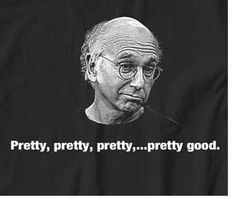
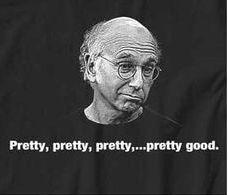
all functions refactored and reordered for better readability... larry david pic cropped

Changed region(s): [[0.0, 0.0, 1.0, 1.0], [0.3377, 0.0615, 0.7061, 0.6462]]

diff --git a/script.js b/script.js
@@ -11,7 +11,7 @@ $( document ).ready(function() {
   var $playerGuess = $('#playerGuessText');
   var $openingVid = $('#openingVid');
   var $regions_div = $('#regions_div');
-  var oneMinute = 15;
+  var oneMinute = 60;
   var guessFormatted;
   var answerFormatted;
   var answerVsGuess;
@@ -304,40 +304,12 @@ $( document ).ready(function() {
   //***************************************************************************
   //START GAME
   //***************************************************************************
-  $startBtn.on('click', function() {
-    $startBtn.addClass('hidden');
-    $openingVid.addClass('hidden');
-    $regions_div.removeClass('hidden');
-    $banner.removeClass('hidden').text("Go!");
-    getNewCountry();
-    $playerGuess.focus();    
-    display = document.querySelector('#time');
-    startTimer(oneMinute, display);
-  });
+  $startBtn.on('click', startGame);
 
   //***************************************************************************
   //USES GUESSES
   //***************************************************************************
-  $playerGuessForm.submit(function(e) {
-    e.preventDefault();
-    $playerGuessVal = $('#playerGuessText').val();
-    $('#playerGuessText').val("");
-    
-    // Format guess and answer
-    guessFormatted = formatAnswerForCheck($playerGuessVal);
-    answerFormatted = formatAnswerForCheck(countryName);
-    
-    // Compare guess and answer - returns array with any overlapping elements
-    answerVsGuess = _.intersectionWith(guessFormatted, answerFormatted, _.isEqual);
-
-    guessCount++;
-    // Checking guess against correct answer
-    checkAnswer();
-    $playerScore.text(`Player Score: ${correctCount}`);
-    
-    // Generate a new country
-    getNewCountry();
-  });  
+  $playerGuessForm.submit(processUserGuess);  
   
   //***************************************************************************
   //RESET GAME
@@ -348,6 +320,7 @@ $( document ).ready(function() {
   //***************************************************************************
   //FUNCTION DEFINITIONS
   //***************************************************************************
+
   // Google's drawRegionsMap function - DO NOT CHANGE (except variables)
   // https://developers.google.com/chart/interactive/docs/gallery/geochart
   function drawRegionsMap() {
@@ -378,35 +351,18 @@ $( document ).ready(function() {
     
     chart.draw(data, options);
   }
-
-  function getNewCountry() {
-    $.ajax({
-      url: 'http://ws.postcoder.com/pcw/PCW45-12345-12345-1234X/country/' + arrayOfCountryInfo[imagesShownCount][0] + '?format=json',
-      method: "GET",
-      success: function(data) {
-        assignCountryInfo(data);
-        drawRegionsMap();
-        imagesShownCount++;
-      }
-    });
-  }
-
-  // Creates array where each element is:
-  // a word, lower-case, w/ non-letters removed and non-English
-  // characters replaced
-  // http://stackoverflow.com/questions/286921/efficiently-replace-all-accented-characters-in-a-string
-  var formatAnswerForCheck = (function() {
-    var translate_re = /[ôé',()-]/g;
-    var translate = {
-      "ô": "o", "é": "e", "(": "", 
-      ")": "", "-": "", "'": "", ",": ""   // probably more to come
-    };
-    return function(s) {
-      return ( s.replace(translate_re, function(match) { 
-        return translate[match]; 
-      }).toLowerCase().split(" ") );
-    };
-  })();
+  
+  // Initiates start of the game
+  function startGame() {
+      $startBtn.addClass('hidden');
+      $openingVid.addClass('hidden');
+      $regions_div.removeClass('hidden');
+      $banner.removeClass('hidden').text("Go!");
+      getNewCountry();
+      $playerGuess.focus();    
+      display = document.querySelector('#time');
+      startTimer(oneMinute, display);
+    }
 
   // Timer function
   // http://stackoverflow.com/questions/20618355/the-simplest-possible-javascript-countdown-timer
@@ -445,7 +401,83 @@ $( document ).ready(function() {
       timer();
       gameTimer = setInterval(timer, 1000);
   }
+  
+  // Displays a new country
+  function getNewCountry() {
+    $.ajax({
+      url: 'http://ws.postcoder.com/pcw/PCW45-12345-12345-1234X/country/' + arrayOfCountryInfo[imagesShownCount][0] + '?format=json',
+      method: "GET",
+      success: function(data) {
+        assignCountryInfo(data);
+        drawRegionsMap();
+        imagesShownCount++;
+      }
+    });
+  }
 
+  // Collects country information and plugs it into Google's drawRegionsMap function
+  function assignCountryInfo(data) {
+    // console.log(data); 
+    currentCountryCode = arrayOfCountryInfo[imagesShownCount][0];
+    regionCode = arrayOfCountryInfo[imagesShownCount][1];
+    countryName = data.countryname;
+    // console.log(countryName);
+  }
+
+  // Takes user's guess, formats it, checks it, and generates the next map
+  function processUserGuess(e) {
+      e.preventDefault();
+      $playerGuessVal = $('#playerGuessText').val();
+      $('#playerGuessText').val("");
+      
+      // Format guess and answer
+      guessFormatted = formatAnswerForCheck($playerGuessVal);
+      answerFormatted = formatAnswerForCheck(countryName);
+      
+      // Compare guess and answer - returns array with any overlapping elements
+      answerVsGuess = _.intersectionWith(guessFormatted, answerFormatted, _.isEqual);
+
+      guessCount++;
+      // Checking guess against correct answer
+      checkAnswer();
+      $playerScore.text(`Player Score: ${correctCount}`);
+      
+      // Generate a new country
+      getNewCountry();
+    }
+
+  // Creates array where each element is:
+  // a word, lower-case, w/ non-letters removed and non-English
+  // characters replaced
+  // http://stackoverflow.com/questions/286921/efficiently-replace-all-accented-characters-in-a-string
+  var formatAnswerForCheck = (function() {
+    var translate_re = /[ôé',()-]/g;
+    var translate = {
+      "ô": "o", "é": "e", "(": "", 
+      ")": "", "-": "", "'": "", ",": ""   // probably more to come
+    };
+    return function(s) {
+      return ( s.replace(translate_re, function(match) { 
+        return translate[match]; 
+      }).toLowerCase().split(" ") );
+    };
+  })();
+
+
+  //Checks user's answer vs correct answer
+  function checkAnswer() {
+    if (answerVsGuess.length !== 0) {
+      $banner.removeClass('hidden').html(`You are correct, that is <strong>${countryName}</strong>`);
+      $bannerContainer.removeClass('bg-info bg-danger').addClass('bg-success');
+      correctCount++;
+    } else {
+      $banner.removeClass('hidden').html(`Sorry, that's <strong>${countryName}</strong>`);
+      $bannerContainer.removeClass('bg-info bg-success').addClass('bg-danger');
+      incorrectCount++;
+    }
+  }
+
+  // Triggered when the game ends (when the timer runs out)
   function gameOver() {
     //Timer and Score text displays "Game Over"
     $timerContainer.removeClass('bg-warning').addClass('bg-danger');
@@ -470,7 +502,21 @@ $( document ).ready(function() {
     $resetBtn.removeClass('hidden');
   }
 
+  // Sets the results image depending on user's score % 
+  function setResultsImg(num) {
+    if (num > 75) {
+      imgURL = "./images/borat_great_success.jpg";
+    } else if (num <= 75 && num > 50) {
+      imgURL = "./images/larry_pretty_good.jpg";
+    } else if (num <= 50 && num > 25) {
+      imgURL = "./images/african_kid_try_again.jpg";
+    } else {
+      imgURL = "./images/picard_wtf.jpg";
+    }
+    $resultsImg.attr("src", imgURL);
+  }
 
+  // Triggered when user clicks "Play Again" button
   function resetGame() {
     // Remove reset button and results div
     $resetBtn.addClass('hidden');
@@ -493,40 +539,5 @@ $( document ).ready(function() {
     startTimer(oneMinute, display);  
   }
   
-  // Sets the results image depending on user's score % 
-  function setResultsImg(num) {
-    if (num >= 75) {
-      imgURL = "./images/borat_great_success.jpg";
-    } else if (num < 75 && num >= 50) {
-      imgURL = "./images/larry_pretty_good.jpg";
-    } else if (num < 50 && num >= 25) {
-      imgURL = "./images/african_kid_try_again.jpg";
-    } else {
-      imgURL = "./images/picard_wtf.jpg";
-    }
-    $resultsImg.attr("src", imgURL);
-  }
-
-  //Checks user's answer vs correct answer
-  function checkAnswer() {
-    if (answerVsGuess.length !== 0) {
-      $banner.removeClass('hidden').html(`You are correct, that is <strong>${countryName}</strong>`);
-      $bannerContainer.removeClass('bg-info bg-danger').addClass('bg-success');
-      correctCount++;
-    } else {
-      $banner.removeClass('hidden').html(`Sorry, that's <strong>${countryName}</strong>`);
-      $bannerContainer.removeClass('bg-info bg-success').addClass('bg-danger');
-      incorrectCount++;
-    }
-  }
-
-  // Collects country information and plugs it into Google's drawRegionsMap function
-  function assignCountryInfo(data) {
-    // console.log(data); 
-    currentCountryCode = arrayOfCountryInfo[imagesShownCount][0];
-    regionCode = arrayOfCountryInfo[imagesShownCount][1];
-    countryName = data.countryname;
-    // console.log(countryName);
-  }
 });
 

diff --git a/countryCodesObj.js b/countryCodesObj.js
@@ -250,15 +250,3 @@ var arrayOfCountryInfo = _.transform(countryCodesObj, function(result, val, key,
 //   [BE, 155],
 //   ...
 // ];
-
-function checkAnswer() {
-  if (answerVsGuess.length !== 0) {
-    $banner.removeClass('hidden').html(`You are correct, that is <strong>${countryName}</strong>`);
-    $bannerContainer.removeClass('bg-info bg-danger').addClass('bg-success');
-    correctCount++;
-  } else {
-    $banner.removeClass('hidden').html(`Sorry, that's <strong>${countryName}</strong>`);
-    $bannerContainer.removeClass('bg-info bg-success').addClass('bg-danger');
-    incorrectCount++;
-  }
-}
